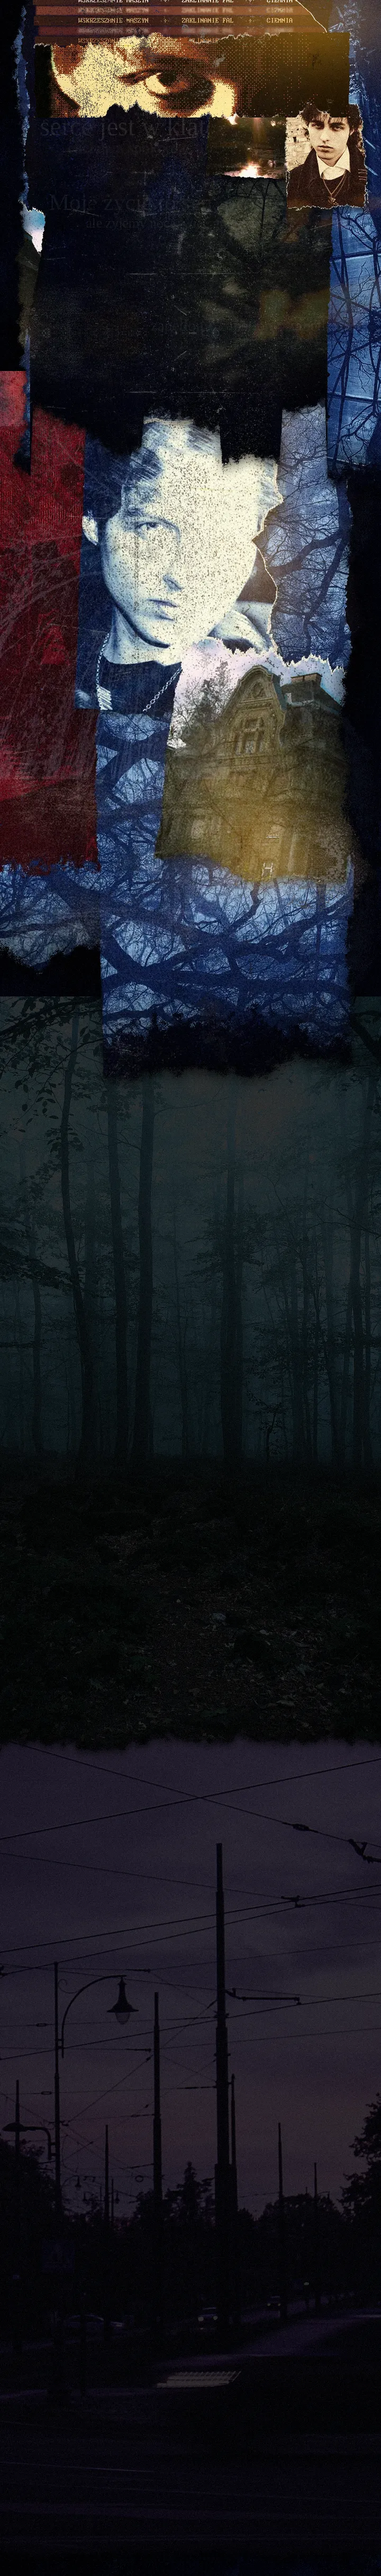
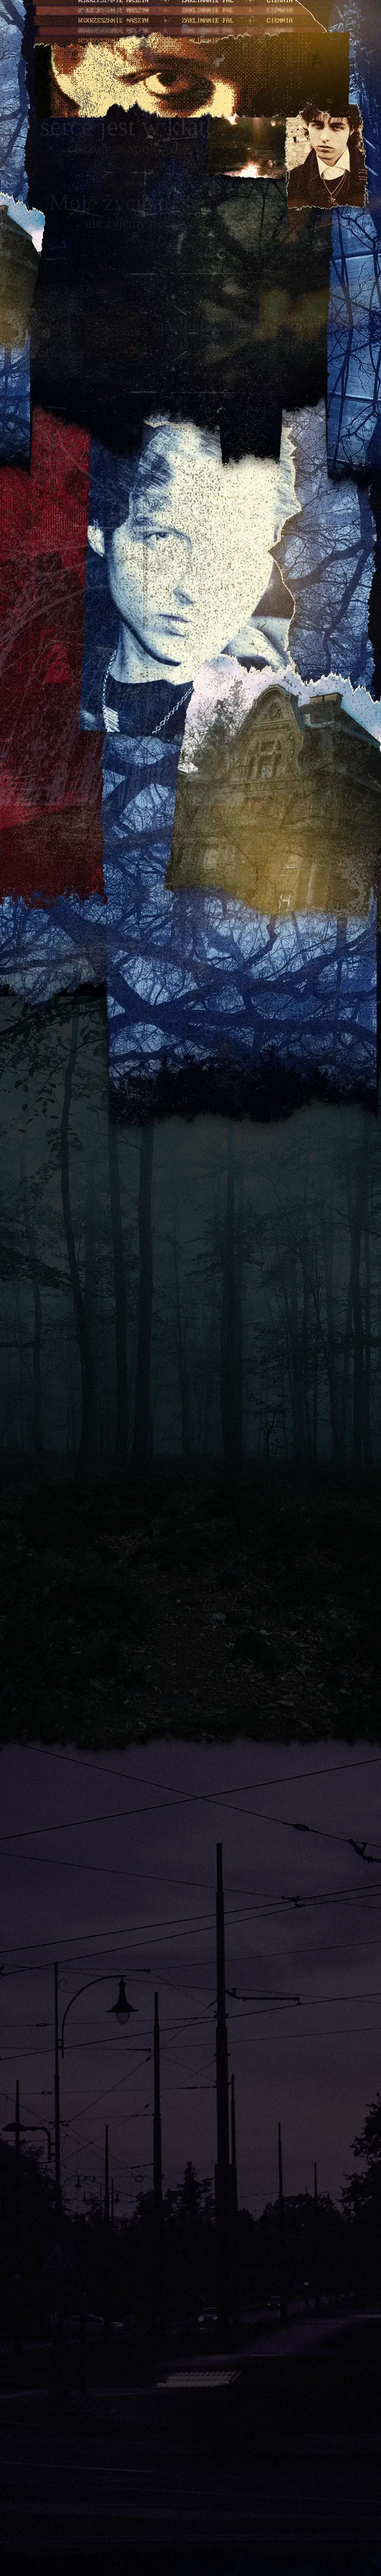
Krzyk: teatralne maski person, kolaż na telefonie bez czarnych pasów po bokach
- Persony jako teatralne maski PS1: lękowa (nawiedzona porcelana, drży
  i nerwowo się rozgląda), wyluzowana (indie sleeze / hyperpop 2000s,
  podskakuje i się kręci), poważna (gotycka, sakralna, złoto i aureola,
  patrzy z góry).
- Telefon: połówki kolażu sięgają krawędzi ekranu (bez strzępienia
  i ciemnych pasów po bokach), treść zaczyna się pod lewą połówką.
- CLAUDE.md: notatki projektu i opis person.

Claude-Session: https://claude.ai/code/session_01XYkKRxVWxhQVw3hCszqGrr

Changed region(s): [[0.0, 0.0, 1.0, 0.435]]

diff --git a/src/engine/psx.js b/src/engine/psx.js
@@ -1,5 +1,5 @@
 // pole wyborów działu Krzyk: modele 3D w potoku PS1 (niska rozdzielczość, drganie wierzchołków, najbliższy piksel)
-// walkman → muzyka, trzy główki → persony, kaseta miniDV (zapada się pod ziemię, potem kamera HC90E) → obraz, telefon → kontakt
+// walkman → muzyka, trzy maski → persony, kaseta miniDV (zapada się pod ziemię, potem kamera HC90E) → obraz, telefon → kontakt
 import * as THREE from 'three';
 import { GLTFLoader } from 'three/examples/jsm/loaders/GLTFLoader.js';
 import { RM, loop, clamp } from './core';
@@ -49,46 +49,65 @@ function grime(w, h, base, v, seed = 1) {
   x.putImageData(id, 0, 0); return c;
 }
 
-/* ---------- trzy główki PS1: każda w innym nastroju ---------- */
-function headTex(mood, seed) {
-  const W = 256, H = 128, c = document.createElement('canvas'); c.width = W; c.height = H; const x = c.getContext('2d');
+/* ---------- persony: teatralne maski PS1 (1 lękowa / haunted, 2 wyluzowana / indie sleeze, 3 poważna / gotycka sakralna) ---------- */
+function maskTex(kind, seed) {
+  const W = 128, H = 160, c = document.createElement('canvas'); c.width = W; c.height = H; const x = c.getContext('2d');
   let s = seed; const r = () => (s = (s * 16807) % 2147483647) / 2147483647;
-  const skin = { cisza: '#c9bfa6', krzyk: '#c4a690', pustka: '#9fb2b6' }[mood];
-  x.fillStyle = skin; x.fillRect(0, 0, W, H);
-  // ziarno i plamy jak na teksturze PS1 (dither)
-  for (let i = 0; i < 2600; i++) { x.fillStyle = r() < .5 ? 'rgba(0,0,0,.10)' : 'rgba(255,255,255,.06)'; x.fillRect(Math.floor(r() * W), Math.floor(r() * H), 2, 1); }
-  // cień pod oczami i policzki (twarz w środku u=.25, czyli x=64)
-  x.fillStyle = 'rgba(40,20,20,.18)'; x.fillRect(44, 60, 16, 10); x.fillRect(68, 60, 16, 10);
-  // włosy: ciemne, postrzępione, z tyłu i na czubku
-  x.fillStyle = '#120d0f';
-  for (let px = 0; px < W; px++) { const front = Math.abs(((px - 64 + 128) % 256) - 128) < 34; const hgt = front ? 30 + (mood === 'krzyk' ? 6 : 2) * Math.sin(px * 1.7) + r() * 8 : 70 + r() * 10; x.fillRect(px, 0, 1, hgt); }
-  const eye = (cx, cy) => {
-    if (mood === 'cisza') { x.fillStyle = '#2a2018'; x.fillRect(cx - 6, cy, 12, 2); x.fillRect(cx - 7, cy - 1, 2, 2); x.fillRect(cx + 5, cy - 1, 2, 2); }
-    if (mood === 'krzyk') { x.fillStyle = '#000'; x.fillRect(cx - 6, cy - 5, 12, 10); x.fillStyle = '#e8e2d0'; x.fillRect(cx - 1, cy - 1, 2, 2); x.fillStyle = '#2a1410'; x.fillRect(cx - 8, cy - 9, 16, 2); }
-    if (mood === 'pustka') { x.fillStyle = '#050608'; x.fillRect(cx - 6, cy - 5, 12, 11); for (let k = 0; k < 3; k++) x.fillRect(cx - 4 + k * 3, cy + 6, 2, 6 + Math.floor(r() * 18)); }
-  };
-  eye(52, 56); eye(76, 56);
-  x.fillStyle = '#3a2a22'; x.fillRect(62, 62, 4, 8);
-  if (mood === 'cisza') { x.fillStyle = '#4a2a24'; x.fillRect(58, 80, 12, 2); }
-  if (mood === 'krzyk') { x.fillStyle = '#000'; x.beginPath(); x.ellipse(64, 84, 8, 11, 0, 0, 7); x.fill(); x.fillStyle = '#6a0b12'; x.fillRect(60, 88, 8, 4); }
-  if (mood === 'pustka') { x.fillStyle = '#1a1214'; x.fillRect(57, 84, 14, 2); x.fillRect(55, 86, 3, 2); x.fillRect(70, 86, 3, 2); }
+  const base = { haunt: '#dfe4e2', sleaze: '#f4e9f0', sacral: '#2e2636', void: '#120607' }[kind];
+  x.fillStyle = base; x.fillRect(0, 0, W, H);
+  for (let i = 0; i < 1600; i++) { x.fillStyle = r() < .5 ? 'rgba(0,0,0,.08)' : 'rgba(255,255,255,.07)'; x.fillRect(Math.floor(r() * W), Math.floor(r() * H), 2, 1); }
+  const hole = (f) => { x.save(); x.globalCompositeOperation = 'destination-out'; x.fillStyle = '#000'; x.beginPath(); f(); x.fill(); x.restore(); };
+  const E = [42, 86], EY = 68;
+  if (kind === 'haunt') {
+    // porcelana z pęknięciami, szeroko otwarte, przerażone oczy, rozmazany cień spływający w dół, małe „o”
+    x.strokeStyle = 'rgba(40,60,70,.55)'; x.lineWidth = 1;
+    for (let k = 0; k < 7; k++) { x.beginPath(); let px = r() * W, py = r() * 50; x.moveTo(px, py); for (let n = 0; n < 6; n++) { px += (r() - .5) * 14; py += 4 + r() * 8; x.lineTo(px, py); } x.stroke(); }
+    E.forEach(ex => { x.fillStyle = 'rgba(30,40,55,.55)'; x.fillRect(ex - 13, EY - 13, 26, 26);
+      for (let k = 0; k < 4; k++) x.fillRect(ex - 9 + k * 6, EY + 10, 2, 14 + Math.floor(r() * 28)); });
+    x.strokeStyle = '#3a4a52'; x.lineWidth = 2; x.beginPath(); x.moveTo(30, 44); x.lineTo(52, 50); x.moveTo(98, 44); x.lineTo(76, 50); x.stroke();
+    E.forEach(ex => hole(() => x.ellipse(ex, EY, 9, 11, 0, 0, 7))); hole(() => x.ellipse(64, 120, 5, 7, 0, 0, 7));
+  }
+  if (kind === 'sleaze') {
+    // błyszcząca, różowo-cyjanowa, mrugnięcie i gwiazdka zamiast oka, wielki uśmiech, brokat i naklejki (2000s)
+    const g = x.createLinearGradient(0, 0, W, H); g.addColorStop(0, '#ffd2ec'); g.addColorStop(.55, '#f4e9f0'); g.addColorStop(1, '#b9f3ff'); x.fillStyle = g; x.fillRect(0, 0, W, H);
+    for (let i = 0; i < 160; i++) { x.fillStyle = ['#ff3fb4', '#3ff0ff', '#fff36a', '#ffffff', '#9b5cff'][Math.floor(r() * 5)]; x.fillRect(Math.floor(r() * W), Math.floor(r() * H), 1, 1); }
+    x.fillStyle = 'rgba(255,80,170,.45)'; x.fillRect(22, 88, 20, 10); x.fillRect(86, 88, 20, 10);
+    x.fillStyle = '#2a0d24'; x.fillRect(34, EY, 18, 3); x.fillRect(32, EY - 2, 3, 3);                     // mrugnięcie
+    hole(() => { for (let k = 0; k < 10; k++) { const a = k * Math.PI / 5 - Math.PI / 2, rr = k % 2 ? 5 : 12; x.lineTo(E[1] + Math.cos(a) * rr, EY + Math.sin(a) * rr); } x.closePath(); });
+    hole(() => { x.moveTo(36, 110); x.quadraticCurveTo(64, 146, 92, 110); x.quadraticCurveTo(64, 126, 36, 110); });
+    x.fillStyle = '#ff3fb4'; x.fillRect(100, 30, 8, 8); x.fillStyle = '#fff36a'; x.fillRect(102, 32, 4, 4);   // naklejka
+  }
+  if (kind === 'sacral') {
+    // czarna z płatkami złota, wąskie oczy z ciężką powieką patrzą z góry, zaciśnięte usta, złoty krzyż na czole
+    for (let i = 0; i < 70; i++) { x.fillStyle = `rgba(${200 + r() * 40},${160 + r() * 30},${60 + r() * 30},${.3 + r() * .5})`; x.fillRect(Math.floor(r() * W), Math.floor(r() * H), 2 + Math.floor(r() * 4), 1 + Math.floor(r() * 3)); }
+    x.fillStyle = '#d9b25a'; x.fillRect(62, 14, 4, 26); x.fillRect(54, 22, 20, 4);
+    x.strokeStyle = '#d9b25a'; x.lineWidth = 2; E.forEach(ex => { x.beginPath(); x.moveTo(ex - 15, EY - 3); x.quadraticCurveTo(ex, EY - 10, ex + 15, EY - 3); x.stroke(); });
+    E.forEach(ex => hole(() => { x.moveTo(ex - 12, EY); x.quadraticCurveTo(ex, EY - 3, ex + 12, EY); x.quadraticCurveTo(ex, EY + 6, ex - 12, EY); }));
+    x.fillStyle = '#d9b25a'; x.fillRect(50, 120, 28, 3);
+    x.fillStyle = 'rgba(217,178,90,.8)'; for (let k = 0; k < 3; k++) x.fillRect(40 + k * 22, 140, 4, 4);
+  }
+  if (kind === 'void') {
+    // (ukryta) czerń i krew: szparki oczu, poszarpany uśmiech z zębami, zacieki
+    x.fillStyle = '#4a0006'; for (let k = 0; k < 9; k++) x.fillRect(10 + r() * 108, 90 + r() * 20, 2, 20 + r() * 50);
+    E.forEach(ex => hole(() => { x.moveTo(ex - 14, EY + 4); x.lineTo(ex + 12, EY - 6); x.lineTo(ex + 10, EY); x.closePath(); }));
+    hole(() => { x.moveTo(26, 106); for (let k = 0; k <= 12; k++) x.lineTo(26 + k * 6.3, 106 + (k % 2 ? 14 : 4) + Math.sin(k / 12 * Math.PI) * 14); x.lineTo(102, 106); x.quadraticCurveTo(64, 116, 26, 106); });
+  }
   return c;
 }
-function makeHead(P, mood, seed) {
-  const g = new THREE.SphereGeometry(1, 12, 9), p = g.attributes.position;
+function makeMask(P, kind, seed) {
+  const g = new THREE.SphereGeometry(1, 14, 12, Math.PI / 2 - 1.15, 2.3, .3, 2.45), p = g.attributes.position;
   for (let i = 0; i < p.count; i++) {
     let X = p.getX(i), Y = p.getY(i), Z = p.getZ(i);
-    if (Y < 0) { const f = 1 - .3 * Math.pow(-Y, 1.4); X *= f; Z *= f; }
-    if (Y < -.75) Z += .08;
-    if (Z > .7 && Math.abs(X) < .2 && Y > -.3 && Y < .12) Z += .16;           // nos
-    if (Z > .55 && Math.abs(X) > .16 && Math.abs(X) < .5 && Y > .02 && Y < .32) Z -= .07;   // oczodoły
-    p.setXYZ(i, X * .8, Y, Z * .88);
+    if (Y < 0) { const f = 1 - .32 * Math.pow(-Y, 1.3); X *= f; Z *= f; }
+    if (Z > .7 && Math.abs(X) < .16 && Y > -.28 && Y < .12) Z += .14;            // nos
+    if (Z > .55 && Math.abs(X) > .18 && Math.abs(X) < .52 && Y > 0 && Y < .34) Z -= .06;  // oczodoły
+    p.setXYZ(i, X * .78, Y * 1.05, Z * .7);
   }
-  const gf = g.toNonIndexed(); gf.computeVertexNormals();                                   // płaskie cieniowanie ścianek jak na PS1
-  const m = P.mat({ map: P.tex(headTex(mood, seed)) });
-  const ng = new THREE.CylinderGeometry(.28, .34, .5, 6).toNonIndexed(); ng.computeVertexNormals();
-  const h = new THREE.Mesh(gf, m); const neck = new THREE.Mesh(ng, P.mat({ color: 0x1a1416 }));
-  neck.position.y = -1.05; const grp = new THREE.Group(); grp.add(h); grp.add(neck); return grp;
+  const gf = g.toNonIndexed(); gf.computeVertexNormals();
+  const m = P.mat({ map: P.tex(maskTex(kind, seed)), alphaTest: .5, side: THREE.DoubleSide });
+  const grp = new THREE.Group(); grp.add(new THREE.Mesh(gf, m));
+  if (kind === 'sacral') { const halo = new THREE.Mesh(new THREE.TorusGeometry(.92, .04, 4, 18), P.mat({ color: 0xd9b25a, emissive: 0x3a2a08 })); halo.position.set(0, .25, -.45); grp.add(halo); }
+  return grp;
 }
 
 /* ---------- pole wyborów ---------- */
@@ -116,12 +135,31 @@ export function initRooms(root, { assets, go }) {
       }).catch(() => {});
     }
     if (kind === 'heads') {
-      const moods = ['cisza', 'krzyk', 'pustka'], hs = moods.map((md, i) => { const h = makeHead(P, md, 11 + i * 7); h.scale.setScalar(.3); h.position.x = (i - 1) * .62; P.scene.add(h); return h; });
-      P.cam.position.set(0, .05, 2.9); P.cam.lookAt(0, -.02, 0);
-      tick = (t) => hs.forEach((h, i) => { const ph = i * 2.1;
-        h.position.y = Math.sin(t / 1100 + ph) * .07 + (st.hot ? .05 : 0);
-        h.rotation.y = st.hot ? Math.sin(t / 90 + ph) * .04 : Math.sin(t / 1900 + ph) * .55;
-        h.rotation.z = Math.sin(t / 1500 + ph) * .08; h.rotation.x = Math.sin(t / 2300 + ph) * .1; });
+      // trzy maski obok siebie, każda rusza się po swojemu; czwarta, ukryta, siedzi w środku i prawie nigdy się nie pokazuje
+      const ks = ['haunt', 'sleaze', 'sacral'], ms = ks.map((k, i) => { const m = makeMask(P, k, 11 + i * 7); m.scale.setScalar(.31); m.position.x = (i - 1) * .6; P.scene.add(m); return m; });
+      const hid = makeMask(P, 'void', 97); hid.scale.setScalar(.31); hid.visible = false; P.scene.add(hid);
+      const cold = new THREE.PointLight(0x7fe8ff, .8, 1.6); cold.position.set(-.64, .1, .6); P.scene.add(cold);
+      const pink = new THREE.PointLight(0xff3fb4, .7, 1.6); pink.position.set(0, -.2, .6); P.scene.add(pink);
+      const gold = new THREE.PointLight(0xffd27a, .8, 1.6); gold.position.set(.64, .4, .6); P.scene.add(gold);
+      P.cam.position.set(0, .05, 2.9); P.cam.lookAt(0, 0, 0);
+      let hoverFrom = null, flashAt = null, flashed = false;
+      tick = (t) => {
+        const [a1, a2, a3] = ms, hot = st.hot;
+        // 1: lękowa, drży i nerwowo się rozgląda
+        a1.position.set(-.6 + (Math.random() - .5) * (hot ? .02 : .008), Math.sin(t / 700) * .03 + (Math.random() - .5) * .006, 0);
+        a1.rotation.set(Math.sin(t / 900) * .06, hot ? Math.sin(t / 60) * .05 : (Math.floor(t / 1300) % 3 - 1) * .35, Math.sin(t / 333) * .03);
+        // 2: wyluzowana, podskakuje i kiwa się na boki, czasem kręci się dla zabawy
+        const sp = (t % 6000) < 700 ? (t % 6000) / 700 * Math.PI * 2 : 0;
+        a2.position.set(0, Math.abs(Math.sin(t / 380)) * (hot ? .12 : .07) - .02, 0); a2.rotation.set(0, sp + Math.sin(t / 1400) * .2, Math.sin(t / 520) * .22);
+        // 3: poważna, wolno unosi się, broda w górze, patrzy z góry
+        a3.position.set(.6, Math.sin(t / 2200) * .04 + .03, 0); a3.rotation.set(-.18 + Math.sin(t / 3000) * .03, hot ? 0 : Math.sin(t / 4000) * .15, 0);
+        // ukryta: tylko po długim wpatrywaniu się (najechanie > 6 s) mignie raz na ułamek sekundy w miejscu środkowej maski
+        if (hot) { if (hoverFrom === null) { hoverFrom = t; flashAt = t + 6000 + Math.random() * 5000; } } else { hoverFrom = null; flashed = false; }
+        const show = hot && !flashed && flashAt && t > flashAt && t < flashAt + 90;
+        if (hot && flashAt && t >= flashAt + 90) flashed = true;
+        hid.visible = !!show; a2.visible = !show; hid.position.copy(a2.position); hid.rotation.set(0, 0, 0);
+        pink.color.setHex(show ? 0xff0000 : 0xff3fb4); pink.intensity = show ? 2.5 : .7;
+      };
       click = () => { st.busy = true; setTimeout(() => { st.busy = false; go(kind); }, RM ? 0 : 380); };
     }
     if (kind === 'minidv') {

diff --git a/src/app/krzyk/page.js b/src/app/krzyk/page.js
@@ -12,13 +12,13 @@ const LOREM = [
 // pole wyborów: model 3D, podpis, dopisek
 const PICKS = [
   ['walkman', 'muzyka', 'klipy · taśmy · odtwarzacz'],
-  ['heads', 'persony', 'trzy twarze, trzy nastroje'],
+  ['heads', 'persony', 'trzy maski, trzy nastroje'],
   ['minidv', 'obraz', 'kaseta miniDV · aparat DSC-V1'],
 ];
 // podrozdziały (treść później)
 const SUBS = [
   ['k-muzyka', 'A1', 'muzyka · taśmy', 'Tu będą klipy w odtwarzaczu z planszy „Zejście”.'],
-  ['k-persony', 'A2', 'persony', 'Tu zamieszkają trzy persony.'],
+  ['k-persony', 'A2', 'persony', 'Tu zamieszkają trzy persony: lękowa, wyluzowana i poważna.'],
   ['k-obraz', 'A3', 'obraz · DSC-V1', 'Tu będzie aparat Sony DSC-V1 do przeglądania zdjęć.'],
   ['k-kontakt', 'A4', 'kontakt', 'Tu będzie kontakt.'],
 ];

diff --git a/src/app/globals.css b/src/app/globals.css
@@ -142,7 +142,7 @@ button{-webkit-user-select:none;user-select:none}
 .k-body{position:relative;z-index:2;width:84%;margin:0 auto;padding:var(--pad) 0 0}
 .k-body :is(p,h1,h2,.k-lv){text-shadow:0 0 6px #000,0 0 14px #000,1px 1px 0 #000}
 @media (max-width:700px){
-  .sec.krzyk{--toph:675cqw;--pad:272cqw}
+  .sec.krzyk{--toph:675cqw;--pad:285cqw}
   .k-bgs{background-image:var(--btp),var(--bmp)}
   .k-foot{background-image:var(--bbp)}
   .k-body{width:92%}

diff --git a/CLAUDE.md b/CLAUDE.md
@@ -1,0 +1,21 @@
+# KRZYK — Zejście: notatki projektu
+
+Portfolio Daniela (d4krzyk): Next.js (eksport statyczny) na GitHub Pages. Działy: Brama (strona główna), Krzyk, Maszynologia.
+Tła i grafiki działu Krzyk powstają ze skryptów generujących (kolaż, tła, tektura); w repozytorium są gotowe pliki w `public/krzyk/`.
+
+## Persony (dział Krzyk → „persony”)
+
+Na stronie są pokazane jako teatralne maski w stylu PS1 (nie głowy).
+
+1. **Lękowa** — boi się i dużo analizuje, overthinking, często mówi szybko i dużo, wiecznie przestraszona życiem.
+   Estetyka: haunted, nawiedzona.
+2. **Wyluzowana** — spokojna, nie przejmuje się życiem, cieszy się prostymi chwilami; bardzo energiczna, głośna,
+   czasem zbyt impulsywna i nie przemyśla niektórych rzeczy; traci czas na głupotki, dużo goofy momentów.
+   Estetyka: indie sleaze / hyperpop, chilled 2000s.
+3. **Poważna** — skupiona na rozwoju wewnętrznym, nie traci czasu na głupoty; posępna i zadziorna, patrzy z góry,
+   obserwatorska; wysokie skupienie na duchowości i poczuciu połączenia ze sobą.
+   Estetyka: gotycka, sakralna.
+
+**Czwarta persona jest sekretem.** Ma być ukryta najgłębiej, „w środku” (za/w środkowej masce), niewidoczna przy
+pierwszym oglądaniu strony; najwyżej rzadkie, ulotne skrawki. Nie opisuj jej w tekstach strony, w repozytorium
+ani w opisach commitów i PR-ów — szczegóły zna tylko autor.
